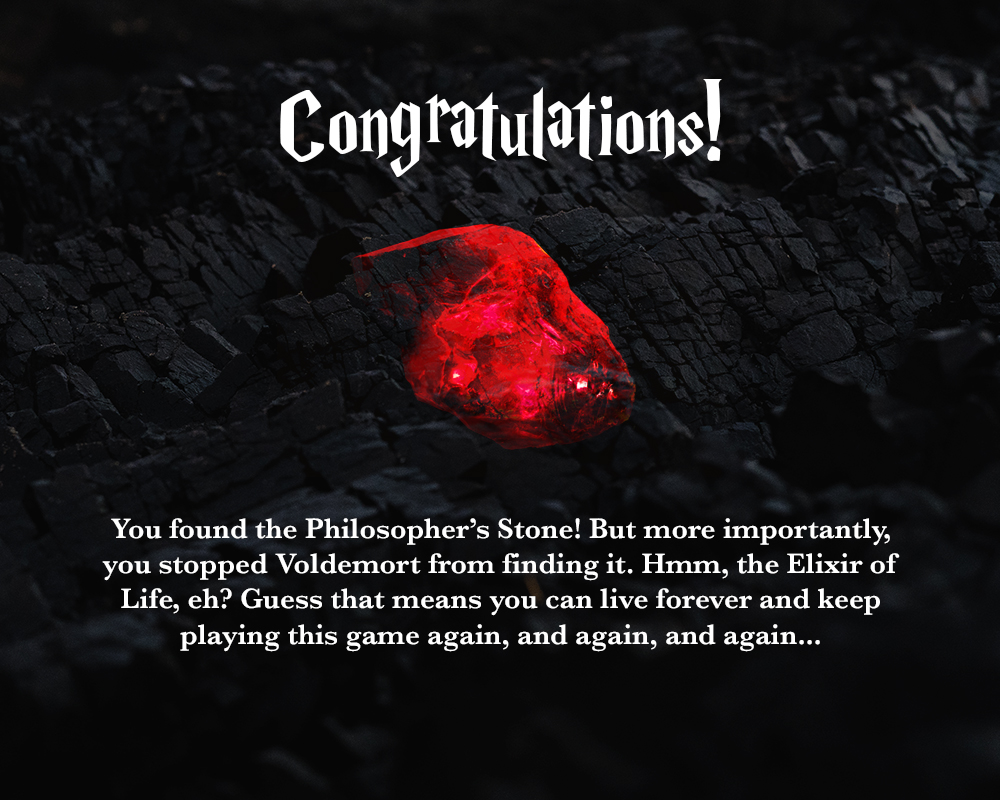
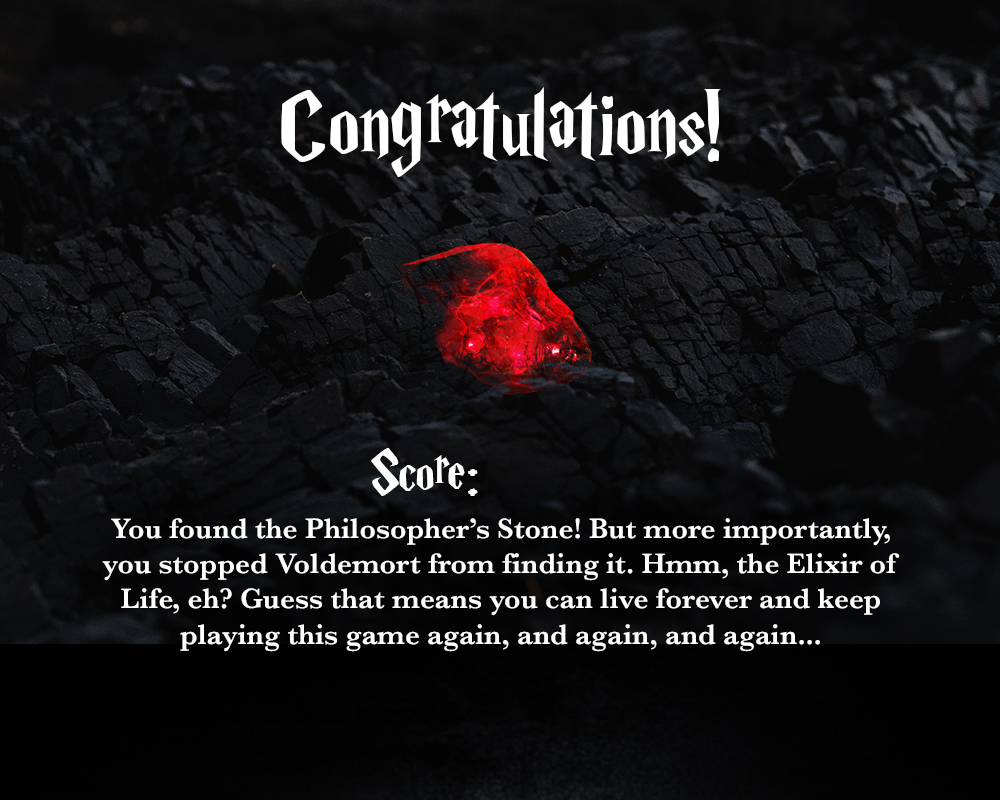
Scores all complete

diff --git a/src/game/Brick.java b/src/game/Brick.java
@@ -22,30 +22,30 @@ public class Brick {
         if (myBrickId == 1) {
             myBrickImageView = createBrick(BrickType.ONE_HIT);
             myHitsRemaining = hitsId;
-            myPointsValue = 50;
+            myPointsValue = 500;
         } else if (myBrickId == 2) {
             myBrickImageView = createBrick(BrickType.TWO_HIT);
             myHitsRemaining = hitsId;
-            myPointsValue = 150;
+            myPointsValue = 1500;
         } else if (myBrickId == 3) {
             myBrickImageView = createBrick(BrickType.THREE_HIT);
             myHitsRemaining = hitsId;
-            myPointsValue = 250;
+            myPointsValue = 2500;
         } else if (myBrickId == 4) {
             myBrickImageView = createBrick(BrickType.ONE_HIT);
             myHitsRemaining = hitsId - POWER_BRICKS_ID_OFFSET;
             myPowerup = new Powerup(Powerup.PowerupType.HORN);
-            myPointsValue = 100;
+            myPointsValue = 1000;
         } else if (myBrickId == 5) {
             myBrickImageView = createBrick(BrickType.TWO_HIT);
             myHitsRemaining = hitsId - POWER_BRICKS_ID_OFFSET;
             myPowerup = new Powerup(Powerup.PowerupType.POTION);
-            myPointsValue = 200;
+            myPointsValue = 2000;
         } else if (myBrickId == 6) {
             myBrickImageView = createBrick(BrickType.THREE_HIT);
             myHitsRemaining = hitsId - POWER_BRICKS_ID_OFFSET;
             myPowerup = new Powerup(Powerup.PowerupType.LIGHTNING);
-            myPointsValue = 300;
+            myPointsValue = 3000;
         }
     }
 

diff --git a/src/game/GameMain.java b/src/game/GameMain.java
@@ -47,6 +47,14 @@ public class GameMain extends Application {
 
     public static void resetStage(GameScene.GameSceneType gameSceneType) {
         myCurrentGameScene = new GameScene(gameSceneType);
+        if (myCurrentGameScene.getGameSceneType() == GameScene.GameSceneType.INTRO) {
+            score = 0;
+        } else if (myCurrentGameScene.getGameSceneType() == GameScene.GameSceneType.WIN || myCurrentGameScene.getGameSceneType() == GameScene.GameSceneType.LOSE) {
+            scoreLabel.setLayoutX(500);
+            scoreLabel.setLayoutY(450);
+            scoreLabel.setFont(Font.font("Helvetica", FontWeight.BOLD, 40));
+            myCurrentGameScene.getRoot().getChildren().add(scoreLabel);
+        }
         if (myCurrentGameScene.getGameSceneType() == GameScene.GameSceneType.LEVEL1 ||
                 myCurrentGameScene.getGameSceneType() == GameScene.GameSceneType.LEVEL2 ||
                 myCurrentGameScene.getGameSceneType() == GameScene.GameSceneType.LEVEL3) {

diff --git a/src/game/GameScene.java b/src/game/GameScene.java
@@ -64,7 +64,7 @@ public class GameScene {
 
     private void setButtonToAdvance(String buttonText) {
         Button button = new Button(buttonText);
-        button.setLayoutX(GameMain.SCENE_WIDTH / 2 - button.getBoundsInParent().getWidth() / 2); //TODO: Figure out what's going on here
+        button.setLayoutX(GameMain.SCENE_WIDTH / 2 - button.getBoundsInParent().getWidth() / 2);
         button.setLayoutY(GameMain.SCENE_HEIGHT - 100);
         button.setOnAction(e -> {
             GameMain.resetStage(myNextGameSceneType);
@@ -216,7 +216,7 @@ public class GameScene {
 
     public void clearLevel(double elapsedTime) {
         for (int i=0; i<myGameStatus.getLivesRemaining(); i++) {
-            GameMain.increaseScore(10);
+            GameMain.increaseScore(2);
         }
         myScene.setOnMouseMoved(null);
         myRoot.getChildren().remove(myBall.getBallImageView());
